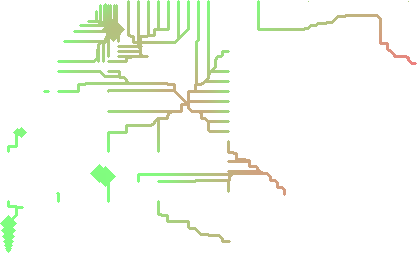
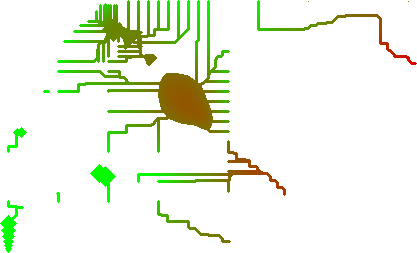
Bread-first search descending from a peak

diff --git a/prominence.rb b/prominence.rb
@@ -1,0 +1,48 @@
+require_relative 'surrounding.rb'
+require_relative 'elevations.rb'
+require_relative 'peaks.rb'
+require 'colorize'
+
+peak = get_peak(ARGV[0])
+if peak.nil?
+  puts "There is no peak with id #{ARGV[0]}"
+  exit
+end
+
+puts "Starting with the peak with elevation #{peak[0]}"
+
+# Items consists of [elevation, position]
+$ele = peak[0].to_i
+$contour = [[peak[1], peak[2]]]
+$visited = [[peak[1], peak[2]]]
+$visited_before = []
+while $ele > 0
+  new_contour = $contour.map{|p| surrounding(p, 1)}.flatten(2).uniq - $visited
+  # puts "new_contour = #{new_contour}"
+  if new_contour.size > 0
+    new_contour = get_eles(new_contour)
+    # puts "new_contour with elevations  = #{new_contour}"
+    new_contour = new_contour.select{|p,ele| ele >= $ele}
+    # puts "new_contour with elevations above #{ele} = #{new_contour}"
+  end
+  if new_contour.size > 0
+    max_in_new_contour = new_contour.max
+    # puts "max_in_new_contour = #{max_in_new_contour}"
+    if max_in_new_contour[1] > $ele + 1 && !$visited_before.include?(max_in_new_contour[0])
+      puts "Found candidate to break dominance: #{max_in_new_contour}"
+      exit
+    else
+      $contour = new_contour.keys
+      puts "Continue spilling with #{$contour.size} positions"
+      $visited += $contour
+      puts "Total visited #{$visited.size}"
+    end
+  else
+    puts "Spilled entirely above #{$ele}, total visited #{$visited.size}".light_green
+    $ele -= 1
+    $contour = [[peak[1], peak[2]]]
+    $visited_before += $visited
+    puts "$visited_before.size = #{$visited_before.size}"
+    $visited = [[peak[1], peak[2]]]
+  end
+end

diff --git a/hill_climbing.rb b/hill_climbing.rb
@@ -1,29 +1,8 @@
 require_relative 'elevations.rb'
 require_relative 'peaks.rb'
+require_relative 'surrounding.rb'
 require 'byebug'
 require 'colorize'
-
-def sum(position1, position2)
-  [(position1[0] + position2[0]).round(4), (position1[1] + position2[1]).round(4)]
-end
-
-
-# Return array of arrays
-# Outer arrays is "by the radius"
-# Inner array consists of positions on the given radius
-def surrounding(position, radius)
-  dlat = 0.0001
-  dlng = 0.0001
-  (1..radius).map do |r|
-    (-r..r).map do |rlat|
-      points = [sum(position, [dlat * rlat, dlng * (r - rlat.abs)])]
-      if rlat.abs != r
-        points += [sum(position, [dlat * rlat, dlng * (rlat.abs - r)])]
-      end
-      points
-    end.flatten(1)
-  end
-end
 
 def highest_neighbor(position, radius)
   all_positions = [[position]] + surrounding(position, radius)

diff --git a/surrounding.rb b/surrounding.rb
@@ -1,0 +1,20 @@
+def sum(position1, position2)
+  [(position1[0] + position2[0]).round(4), (position1[1] + position2[1]).round(4)]
+end
+
+# Return array of arrays
+# Outer arrays is "by the radius"
+# Inner array consists of positions on the given radius
+def surrounding(position, radius)
+  dlat = 0.0001
+  dlng = 0.0001
+  (1..radius).map do |r|
+    (-r..r).map do |rlat|
+      points = [sum(position, [dlat * rlat, dlng * (r - rlat.abs)])]
+      if rlat.abs != r
+        points += [sum(position, [dlat * rlat, dlng * (rlat.abs - r)])]
+      end
+      points
+    end.flatten(1)
+  end
+end

diff --git a/visualize.rb b/visualize.rb
@@ -9,7 +9,7 @@ $minele = $db.get_first_value("SELECT min(ele) FROM elevations;")
 $maxele = $db.get_first_value("SELECT max(ele) FROM elevations;")
 $width = (10000 * ($maxlng - $minlng) + 1).round
 $height = (10000 * ($maxlat - $minlat) + 1).round
-$color_scale = [[0, 220], [255, 0], [0, 0], [128, 128]]
+$color_scale = [[0, 220], [255, 0], [0, 0], [255, 255]]
 
 puts "Min elevation = #{$minele}, max elevation = #{$maxele}"
 

diff --git a/peaks.rb b/peaks.rb
@@ -18,3 +18,8 @@ def store_peak(position, elevation)
     system("google-chrome #{url}")
   end
 end
+
+def get_peak(id)
+  where = id ? " WHERE id = #{id.to_i}" : ""
+  $db.get_first_row("SELECT elevation, lat, lng FROM peaks#{where};")
+end

diff --git a/elevations.rb b/elevations.rb
@@ -35,6 +35,7 @@ def get_eles_from_db(positions)
   eles
 end
 
+# Return hash {position => elevation}
 def get_eles(positions)
   eles = positions.map{|p| [p, nil]}.to_h 
   puts "Requesting #{positions.size} positions".light_black

diff --git a/README.md b/README.md
@@ -2,9 +2,16 @@
 
 ## Usage
 
-At first, run `bundle`. Then, specify the initial position in `main.rb` and run `ruby main.rb`.
-The intermittent positions are cached in table `elevations`.
-The found peak is stored in table `peaks`.
+
+At first, run `bundle`.
+
+* Run `ruby main.rb`. Specify initial coordinates as an argument, e.g. `ruby main.rb 48.1234,17.1234`. The intermittent positions are cached in table `elevations`. The found peak is stored in table `peaks`. A new tab in google-chrome is opened with map of all peaks. 
+* Run `ruby visualize.rb`. A file `elevations.png` is created and opened in new tab in google-chrome.
+* Run `ruby prominence.rb`. Optionally specify id of the peak to count prominence of, e.g. `ruby prominence.rb 6`. Broad-first search is performed until a saddle point is found. The intermittent positions are cached in table `elevations`.
+
+## Dependencies
+
+[Dependency diagram](https://drive.google.com/file/d/1w_ES1l23431xla3ORWKU3THVlxcRg4AG/view?usp=sharing)
 
 ## Roadmap
 
